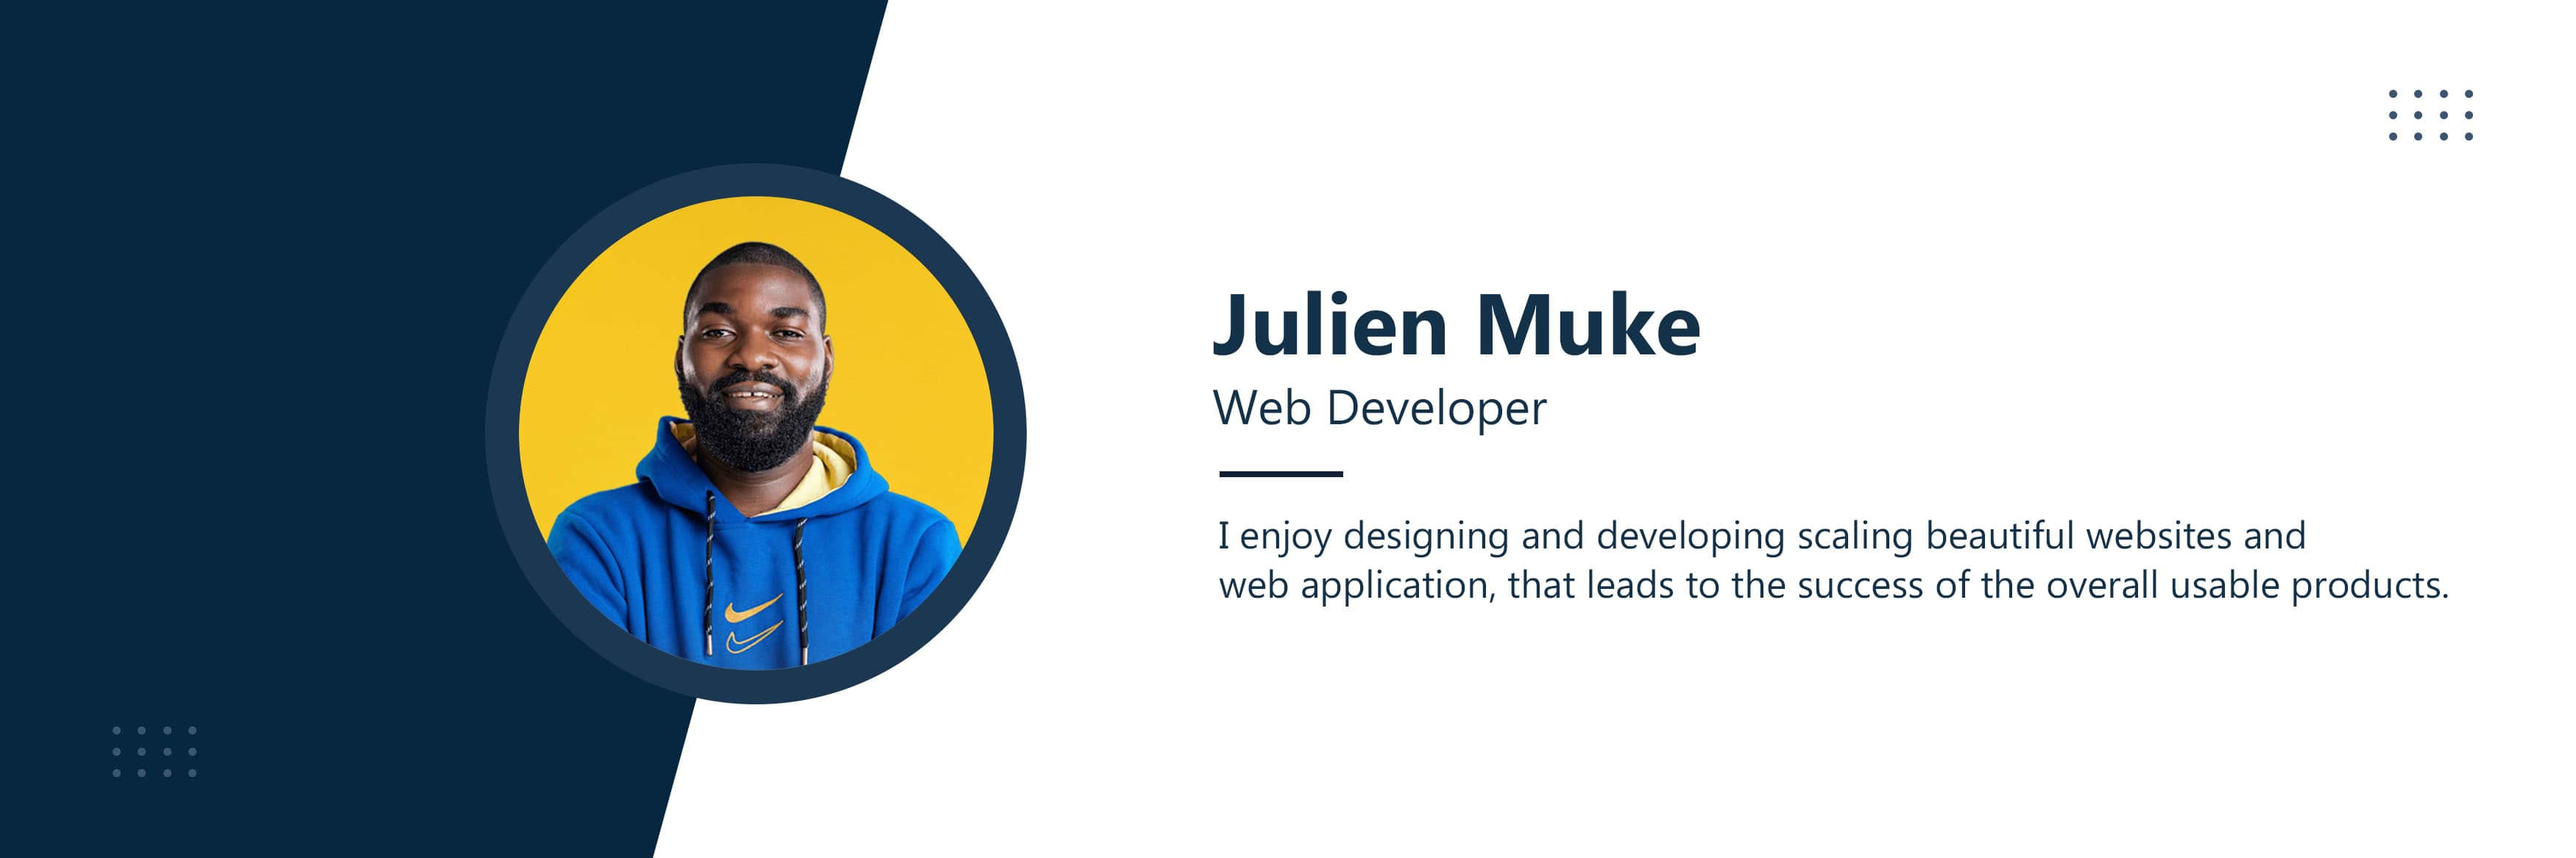
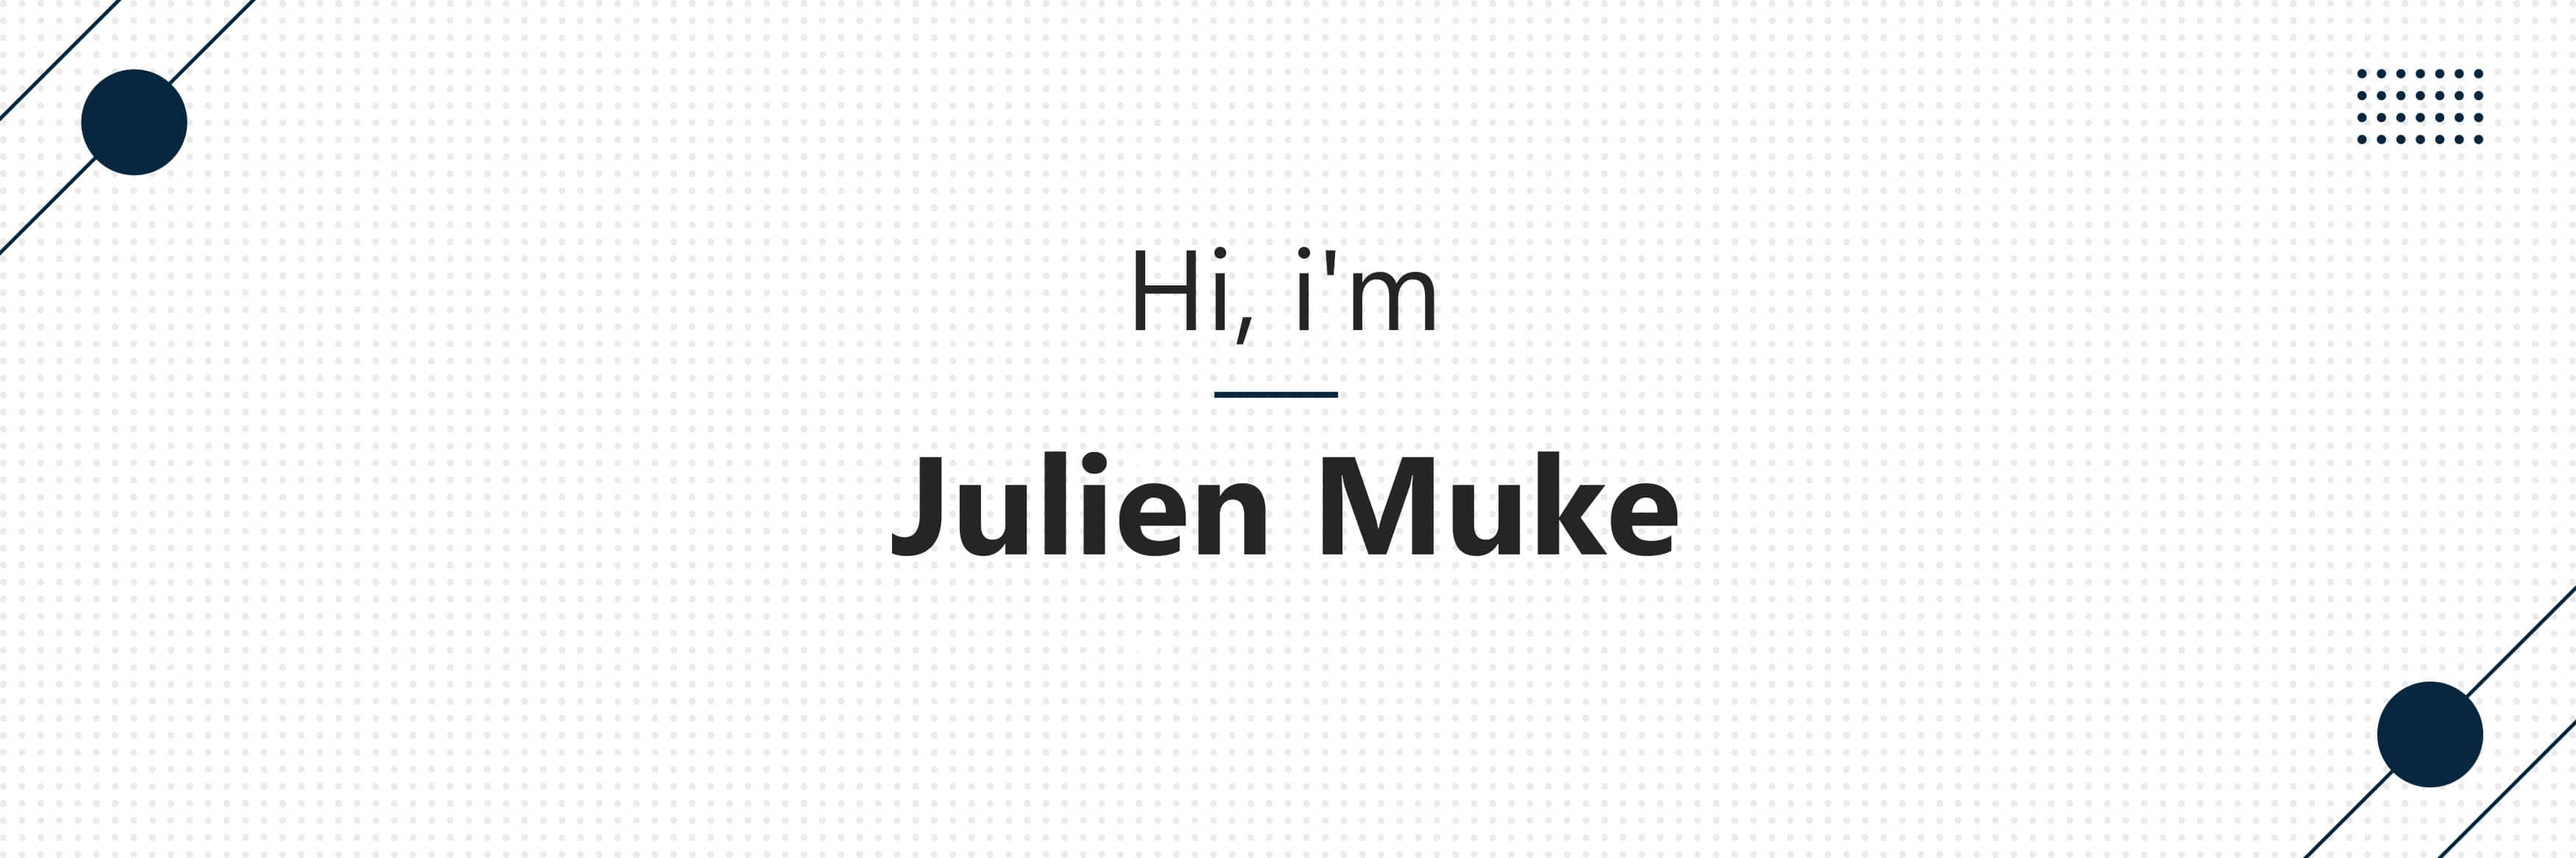
update README.md

diff --git a/README.md b/README.md
@@ -1,6 +1,10 @@
-[![julien-muke's GitHub Banner](header2.jpg)](https://julienmuke.com)
+[![julien-muke's GitHub Banner](header.jpg)](https://julienmuke.com)
    
-<br>  
+<br> 
+
+Hey there 👋
+
+I'm julien, a web developer, I enjoy designing and developing scaling beautiful websites and web application, that leads to the success of the overall usable products.
 
 Want to know more about me? [Check out my portfolio.](https://julienmuke.com/)
 
